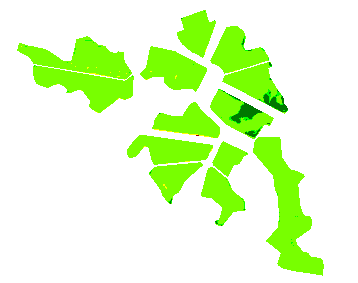
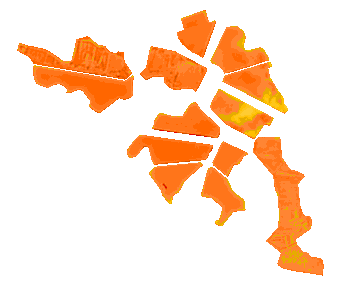
Scaled dissolved oxygen, turbidity, and added new legends

Changed region(s): [[0.0307, 0.0283, 0.9218, 0.9894]]

diff --git a/app.py b/app.py
@@ -15,8 +15,8 @@ st.set_page_config(page_title='GalaxEye Space PoHA', page_icon='./static/galaxey
 
 # Add a sidebar to the web page. 
 with st.sidebar:
-    choose = option_menu("GalaxEye Space-PoHA (Pond Health Analysis)", ["Dashboard","Chlorophyll","Dissolved Oxygen","pH","Salinity","Turbidity"],
-                         icons=['graph-up', 'brightness-high', 'cloud-haze2', 'speedometer2', 'snow', 'moisture'],
+    choose = option_menu("GalaxEye Space-PoHA (Pond Health Analysis)", ["Dashboard","Chlorophyll","Dissolved Oxygen","pH","Salinity","Turbidity","Custom Filter"],
+                         icons=['graph-up', 'brightness-high', 'cloud-haze2', 'speedometer2', 'snow', 'moisture', 'funnel'],
                          menu_icon="app-indicator", default_index=0,
                          styles={
         "container": {"padding": "5!important", "background-color": "#26272F"},
@@ -220,3 +220,46 @@ if choose == "Turbidity":
         st_map = st_folium(map, width=1000, height=650)
     with col2:               # To display brand log
         st.image(Image.open("./static/turbidityLegend.png"))
+
+if choose == "Custom Filter":
+    col1, col2 = st.columns( [0.8, 0.2])
+    with col1:               # To display the header text using css style
+        st.markdown(""" <style> .font {
+        font-size:35px ; font-family: 'Cooper Black'; color: #ffffff;} 
+        </style> """, unsafe_allow_html=True)
+        st.markdown('<p class="font">Water Turbidity Heatmap</p>', unsafe_allow_html=True)    
+    with col2:               # To display brand log
+        st.image(logo, width=130)
+
+    col1, col2 = st.columns( [0.8, 0.2])
+    with col1:               # To display the header text using css style
+        map = folium.Map(location=[-2.4474679490380993, -79.98500168575568], zoom_start=15, scrollWheelZoom=True, tiles='CartoDB positron')
+        img = folium.raster_layers.ImageOverlay(
+        name="Dissolved Oxygen",
+        image="./static/turbidity.png",
+        bounds=[[-2.460891311086019, -79.99976724386217], [-2.4354694248845985, -79.96761258691551]],
+        opacity=1.0,
+        interactive=True,
+        cross_origin=False,
+        zindex=1,
+        )
+
+        img.add_to(map)
+        for l, row in enumerate(dataframe.iterrows()):
+            html = popupTable(dataframe, l)
+            iframe = branca.element.IFrame(html=html,width=700,height=600)
+            popup = folium.Popup(folium.Html(html, script=True), max_width=500)
+            folium.GeoJson(data=row[1][5], popup=popup).add_to(map)
+        st_map = st_folium(map, width=1000, height=650)
+    with col2:               # To display brand log
+        option = st.radio('Select custom filter',("Chlorophyll","Dissolved Oxygen","pH","Salinity","Turbidity"))
+        if option=="Chlorophyll":
+            value = st.slider('Select Chlorophyll Index Range', 0.0, 1.0, 0.1)
+        if option=="Dissolved Oxygen":
+            value = st.slider('Select Dissolved Oxygen Range (mg/L)', 0.0, 1.0, 0.1)
+        if option=="pH":
+            value = st.slider('Select pH Range', 0.0, 1.0, 0.1)
+        if option=="Salinity":
+            value = st.slider('Select Salinity Range (ppt)', 0.0, 1.0, 0.1)
+        if option=="Turbidity":
+            value = st.slider('Select Turbidity Range (NTU)', 0.0, 1.0, 0.1)

diff --git a/utils.py b/utils.py
@@ -1,9 +1,9 @@
 def popupTable(dataframe, row):
-    chlorophyll = dataframe["Chlorophyll"][row]
-    dissolvedo2 = str(dataframe["DissolvedOxygen"][row])+" mg/l"
-    ph = dataframe["pH"][row]
-    salinity = str(dataframe["Salinity"][row])+" ppt"
-    turbidity = dataframe["Turbidity"][row]
+    chlorophyll = '%.6f'%dataframe["Chlorophyll"][row]
+    dissolvedo2 = str('%.6f'%dataframe["DissolvedOxygen"][row])+" mg/l"
+    ph = '%.6f'%dataframe["pH"][row]
+    salinity = str('%.6f'%dataframe["Salinity"][row])+" ppt"
+    turbidity = str('%.6f'%dataframe["Turbidity"][row])+" NTU"
     centroidCoordinates = ['%.6f'%dataframe["geometry"][row].centroid.x, '%.6f'%dataframe["geometry"][row].centroid.y] 
     
     html = """<!DOCTYPE html>
